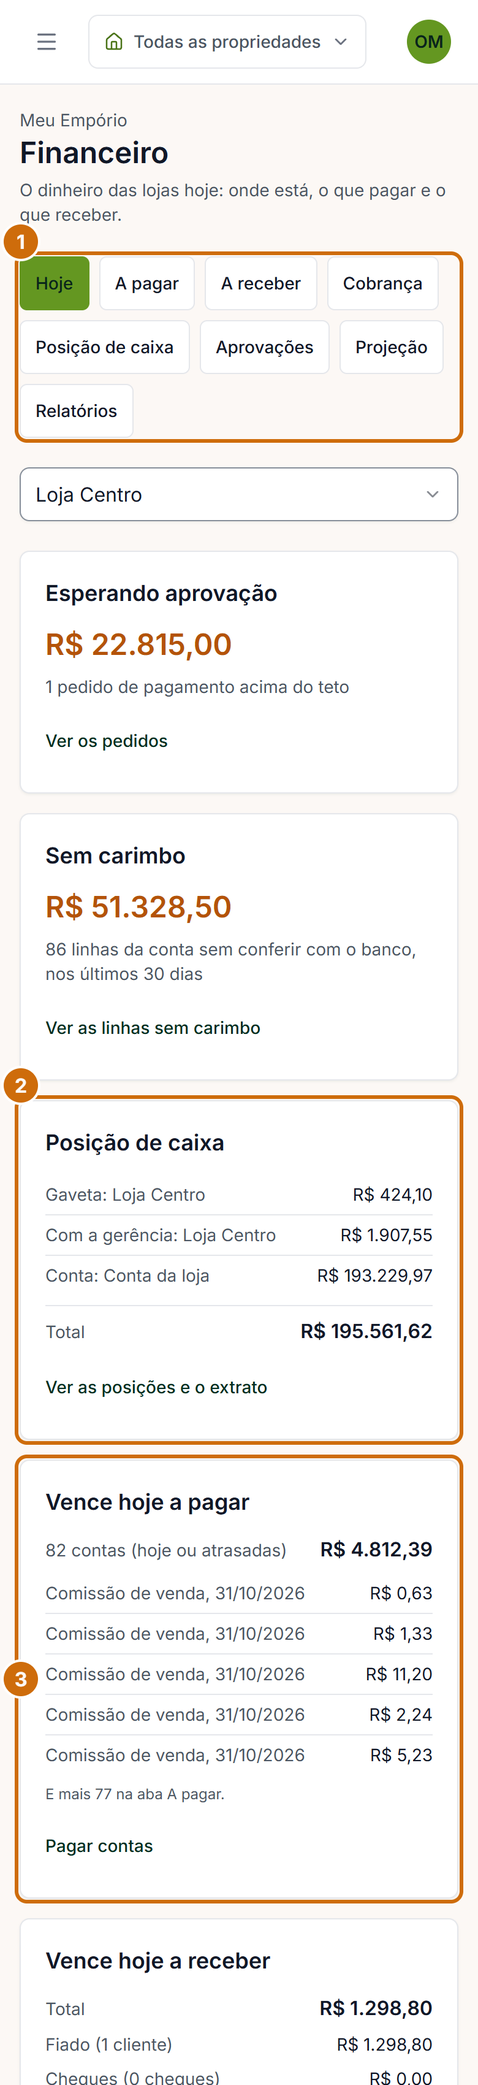
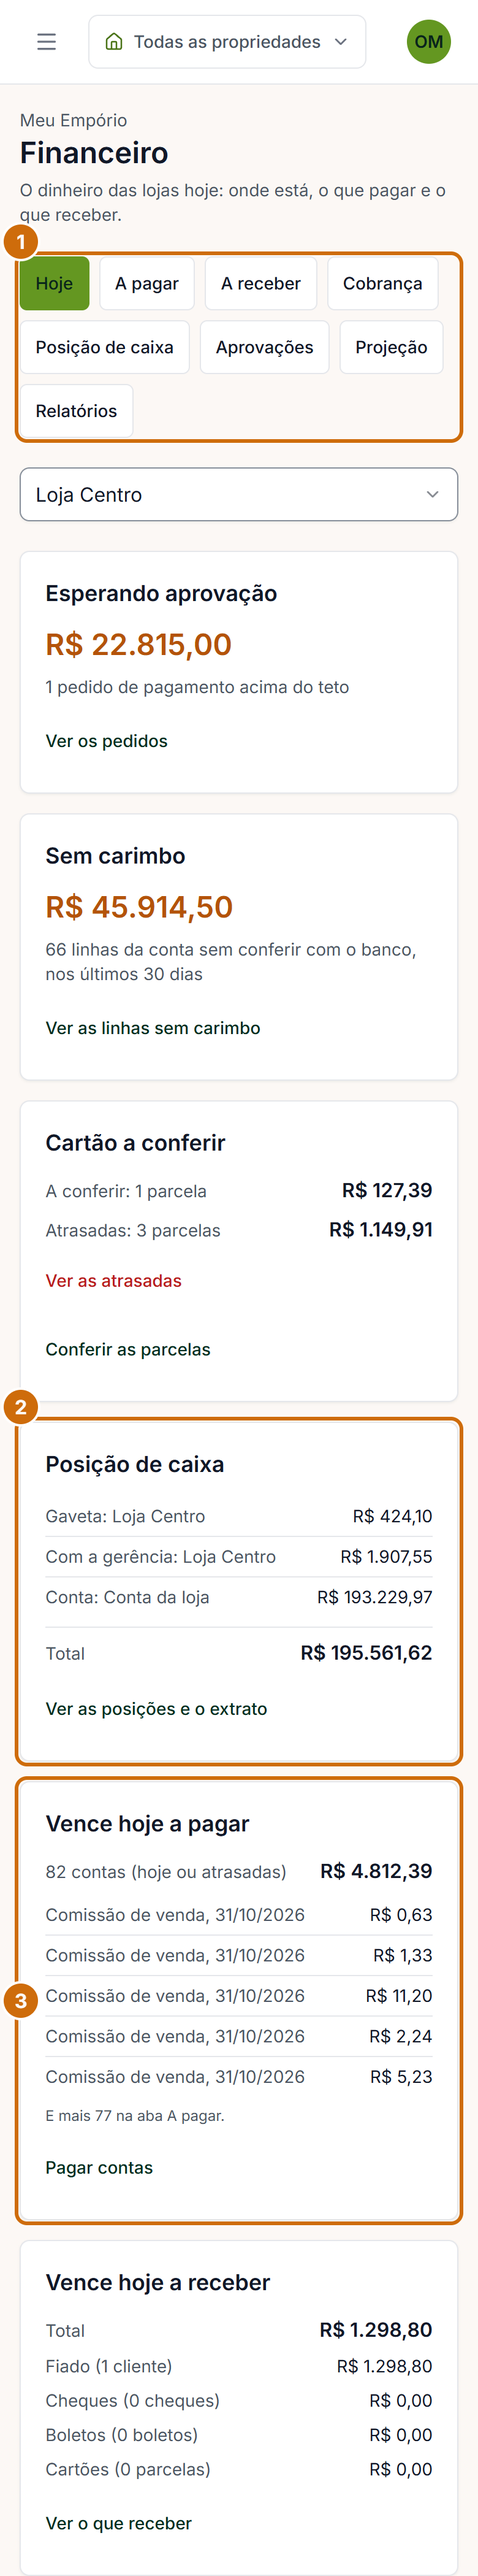
Empório: manual da conferência do cartão, figuras do Caixa (estado) e do Hoje (cartão a conferir), e o rótulo repetido do Hoje enxuto
Claude-Session: https://claude.ai/code/session_01PpptRS6hZ4xQMJ721LGqsn

diff --git a/src/app/(dashboard)/manual/_conteudo/partes-tarefa-3.tsx b/src/app/(dashboard)/manual/_conteudo/partes-tarefa-3.tsx
@@ -771,6 +771,35 @@ export function ParteDeFinanceiroDasLojas() {
         <Figura id="financeiro-extrato" />
       </Tarefa>
 
+      <Subtitulo>Conferir o cartão</Subtitulo>
+      <Tarefa
+        paraQueServe="Dizer quanto do cartão caiu de fato na conta, para o saldo, o custo do cartão e o resultado baterem com o extrato da adquirente."
+        passos={[
+          <>Em <strong>A receber</strong>, cada parcela de cartão tem um estado: <strong>Prevista</strong> (ainda não caiu), <strong>A conferir</strong> (caiu ou cai hoje), <strong>Atrasada</strong> (passou um dia útil depois da data e ninguém conferiu) e <strong>Conferida</strong>. O saldo já conta a parcela na data; a conferência só corrige a diferença.</>,
+          <>Para conferir tudo o que caiu num dia, clique em <strong>Conferir o dia</strong> na data, adquirente e conta. O painel soma o previsto e já vem preenchido com ele: digite o total que o extrato mostra e clique em <strong>Conferir</strong>. Com a tela filtrada por loja, confere só as parcelas daquela loja.</>,
+          <>Para conferir uma parcela só, clique em <strong>Conferir</strong> na linha e digite o valor que caiu.</>,
+          <>Se a diferença passar de 10% do previsto, o painel pergunta antes: confira o valor e clique em <strong>Confirmar e conferir</strong>.</>,
+          <>A diferença vira a linha <strong>Ajuste da conferência do cartão</strong> no extrato da conta, logo abaixo do cartão e já carimbada. O saldo da conta muda por ela, e no Resultado ela entra em <strong>Ajustes da conferência</strong>, no custo do cartão.</>,
+          <>Carimbar a linha de cartão no extrato também confere a parcela, pelo valor previsto.</>,
+          <>Se conferiu errado, clique em <strong>Desfazer</strong> na parcela e diga o motivo: o ajuste some e a parcela volta ao estado de antes. A conferida fica à vista em A receber por 7 dias depois da data.</>,
+          <>Em <strong>Hoje</strong>, o cartão <strong>Cartão a conferir</strong> mostra as parcelas a conferir e as atrasadas, com os links para elas.</>,
+        ]}
+        problemas={[
+          {
+            quando: "O Gestor da loja não vê o botão Conferir",
+            fazer: "É de propósito. Conferem o Dono, o Gerente geral e o Financeiro. O Gestor vê o estado das parcelas no Caixa.",
+          },
+          {
+            quando: "“Esta parcela foi conferida pela antecipação”, ao tentar desfazer",
+            fazer: "A parcela antecipada nasce conferida. Para voltar atrás, desfaça a antecipação em A receber.",
+          },
+          {
+            quando: "Parcelas antigas já aparecem como conferidas",
+            fazer: "Quando a conferência chegou, as parcelas com data de mais de 7 dias antes foram conferidas pelo valor previsto, sem ajuste. As dos últimos 7 dias ficaram para conferir.",
+          },
+        ]}
+      />
+
       <Subtitulo>Ver o fluxo projetado</Subtitulo>
       <Tarefa
         paraQueServe="Saber, semana a semana, se o dinheiro vai dar para pagar o que vem pela frente."

diff --git a/src/app/(dashboard)/manual/_conteudo/figuras.ts b/src/app/(dashboard)/manual/_conteudo/figuras.ts
@@ -149,7 +149,7 @@ export const FIGURAS: Figura[] = [
     pagina: "/emporio/financeiro",
     papel: "dono",
     legenda: "A casa do Financeiro: o dinheiro das lojas hoje",
-    alt: "Tela Hoje do Financeiro com as quatro abas, o filtro de loja e os cartões de posição de caixa, contas a pagar e a receber",
+    alt: "Tela Hoje do Financeiro com as abas, o filtro de loja e os cartões de cartão a conferir, posição de caixa, contas a pagar e a receber",
     marcas: [
       { numero: 1, alvo: "as quatro abas", texto: "Hoje, A pagar, A receber e Posição de caixa. Cada uma é uma tela." },
       { numero: 2, alvo: "o cartão Posição de caixa", texto: "Onde está o dinheiro: cada gaveta, a gerência de cada loja e cada conta bancária." },
@@ -415,7 +415,7 @@ export const FIGURAS: Figura[] = [
     legenda: "Cartão a receber e cheques na carteira",
     alt: "Seções A receber do cartão e Cheques da tela Caixa",
     marcas: [
-      { numero: 1, alvo: "a seção A receber do cartão", texto: "Parcelas que ainda não caíram na conta, com data e valor líquido." },
+      { numero: 1, alvo: "a seção A receber do cartão", texto: "Parcelas que ainda não caíram na conta, com data, valor líquido e o estado (Prevista). Quem confere é o Financeiro." },
       { numero: 2, alvo: "a seção Cheques", texto: "Cheques recebidos, depositados, compensados e devolvidos." },
       { numero: 3, alvo: "o botão Transferir dinheiro", texto: "Leva o dinheiro que está com a gerência para o banco." },
     ],

diff --git a/src/app/(dashboard)/emporio/_components/financeiro-hoje.tsx b/src/app/(dashboard)/emporio/_components/financeiro-hoje.tsx
@@ -87,7 +87,7 @@ export function FinanceiroHoje({ resumo, loja }: { resumo: HojeView; loja: strin
         <Cartao titulo="Cartão a conferir" href={enderecoDoReceber("hoje")} verTudo="Conferir as parcelas">
           {cards_to_confirm.count > 0 && (
             <Linha
-              rotulo={`Cartão a conferir: ${plural(cards_to_confirm.count, "parcela", "parcelas")}`}
+              rotulo={`A conferir: ${plural(cards_to_confirm.count, "parcela", "parcelas")}`}
               valor={reaisBr(cards_to_confirm.total)}
               destaque
             />

diff --git a/scripts/navegador/emporio-conferir-cartao.py b/scripts/navegador/emporio-conferir-cartao.py
@@ -275,7 +275,7 @@ confere("o Caixa traz o mesmo selo na secao 'A receber do cartao' (coluna Estado
 passo("8. O Hoje do Financeiro: Cartao a conferir e Atrasadas")
 chegou = ir(HOJE_FIN)
 principal = texto_do_main()
-confere("o Hoje mostra 'Cartão a conferir: 2 parcelas' com R$ 170,00", bool(re.search(r"Cartão a conferir: 2 parcelas\s*R\$ 170,00", principal)), principal[:600])
+confere("o Hoje mostra 'A conferir: 2 parcelas' com R$ 170,00", bool(re.search(r"A conferir: 2 parcelas\s*R\$ 170,00", principal)), principal[:600])
 confere("o Hoje mostra 'Atrasadas: 4 parcelas' com R$ 400,00", bool(re.search(r"Atrasadas: 4 parcelas\s*R\$ 400,00", principal)), principal[:600])
 confere("o link 'Conferir as parcelas' leva ao A receber com ?ver=hoje e a loja", any("receber" in h and "ver=hoje" in h and ID1 in h for h in hrefs("Conferir as parcelas")), hrefs("Conferir as parcelas"))
 confere("o link 'Ver as atrasadas' leva ao A receber com ?ver=vencido e a loja", any("receber" in h and "ver=vencido" in h and ID1 in h for h in hrefs("Ver as atrasadas")), hrefs("Ver as atrasadas"))
@@ -450,7 +450,7 @@ linhas = linhas_do_extrato()
 confere("o extrato voltou a 4 linhas de ajuste (a entrada de 1,00 sumiu)", len([t for t in linhas if "Ajuste da conferência do cartão" in t]) == 4 and not any("1,00" in t and "Ajuste" in t for t in linhas), [t[:100] for t in linhas])
 ir("/emporio/financeiro?loja=" + ID1)
 principal = texto_do_main()
-confere("o Hoje: 'Cartão a conferir: 1 parcela' com R$ 90,00 e nenhuma linha de 'Atrasadas' (todas conferidas)", bool(re.search(r"Cartão a conferir: 1 parcela\s*R\$ 90,00", principal)) and "Atrasadas:" not in principal, principal[:500])
+confere("o Hoje: 'A conferir: 1 parcela' com R$ 90,00 e nenhuma linha de 'Atrasadas' (todas conferidas)", bool(re.search(r"A conferir: 1 parcela\s*R\$ 90,00", principal)) and "Atrasadas:" not in principal, principal[:500])
 ir("/emporio/resultado?loja=" + ID1 + "&mes=" + mes_atual)
 custo = secao("Custo do cartão") or ""
 confere("o Resultado voltou aos ajustes de antes (R$ " + ("%.2f" % no_mes).replace(".", ",") + ")", ("R$ " + ("%.2f" % no_mes).replace(".", ",")) in custo.replace("\n", " ") if no_mes > 0 else "Ajustes da conferência" not in custo, custo)

diff --git a/scripts/navegador/manual-emporio.py b/scripts/navegador/manual-emporio.py
@@ -641,7 +641,7 @@ figura("financeiro-hoje", "dono", lambda: "/emporio/financeiro?loja=" + id_da_lo
     (1, "document.querySelector('nav[aria-label=\"Telas do Financeiro\"]')", "as quatro abas"),
     (2, "M.S('Posição de caixa')", "o cartao Posição de caixa"),
     (3, "M.S('Vence hoje a pagar')", "o cartao Vence hoje a pagar"),
-], hd=900, hc=1700)
+], hd=1200, hc=2100)
 
 figura("financeiro-pagar", "dono", "/emporio/financeiro/pagar", [
     (1, "M.TH('Conta')", "a lista de contas a pagar"),
